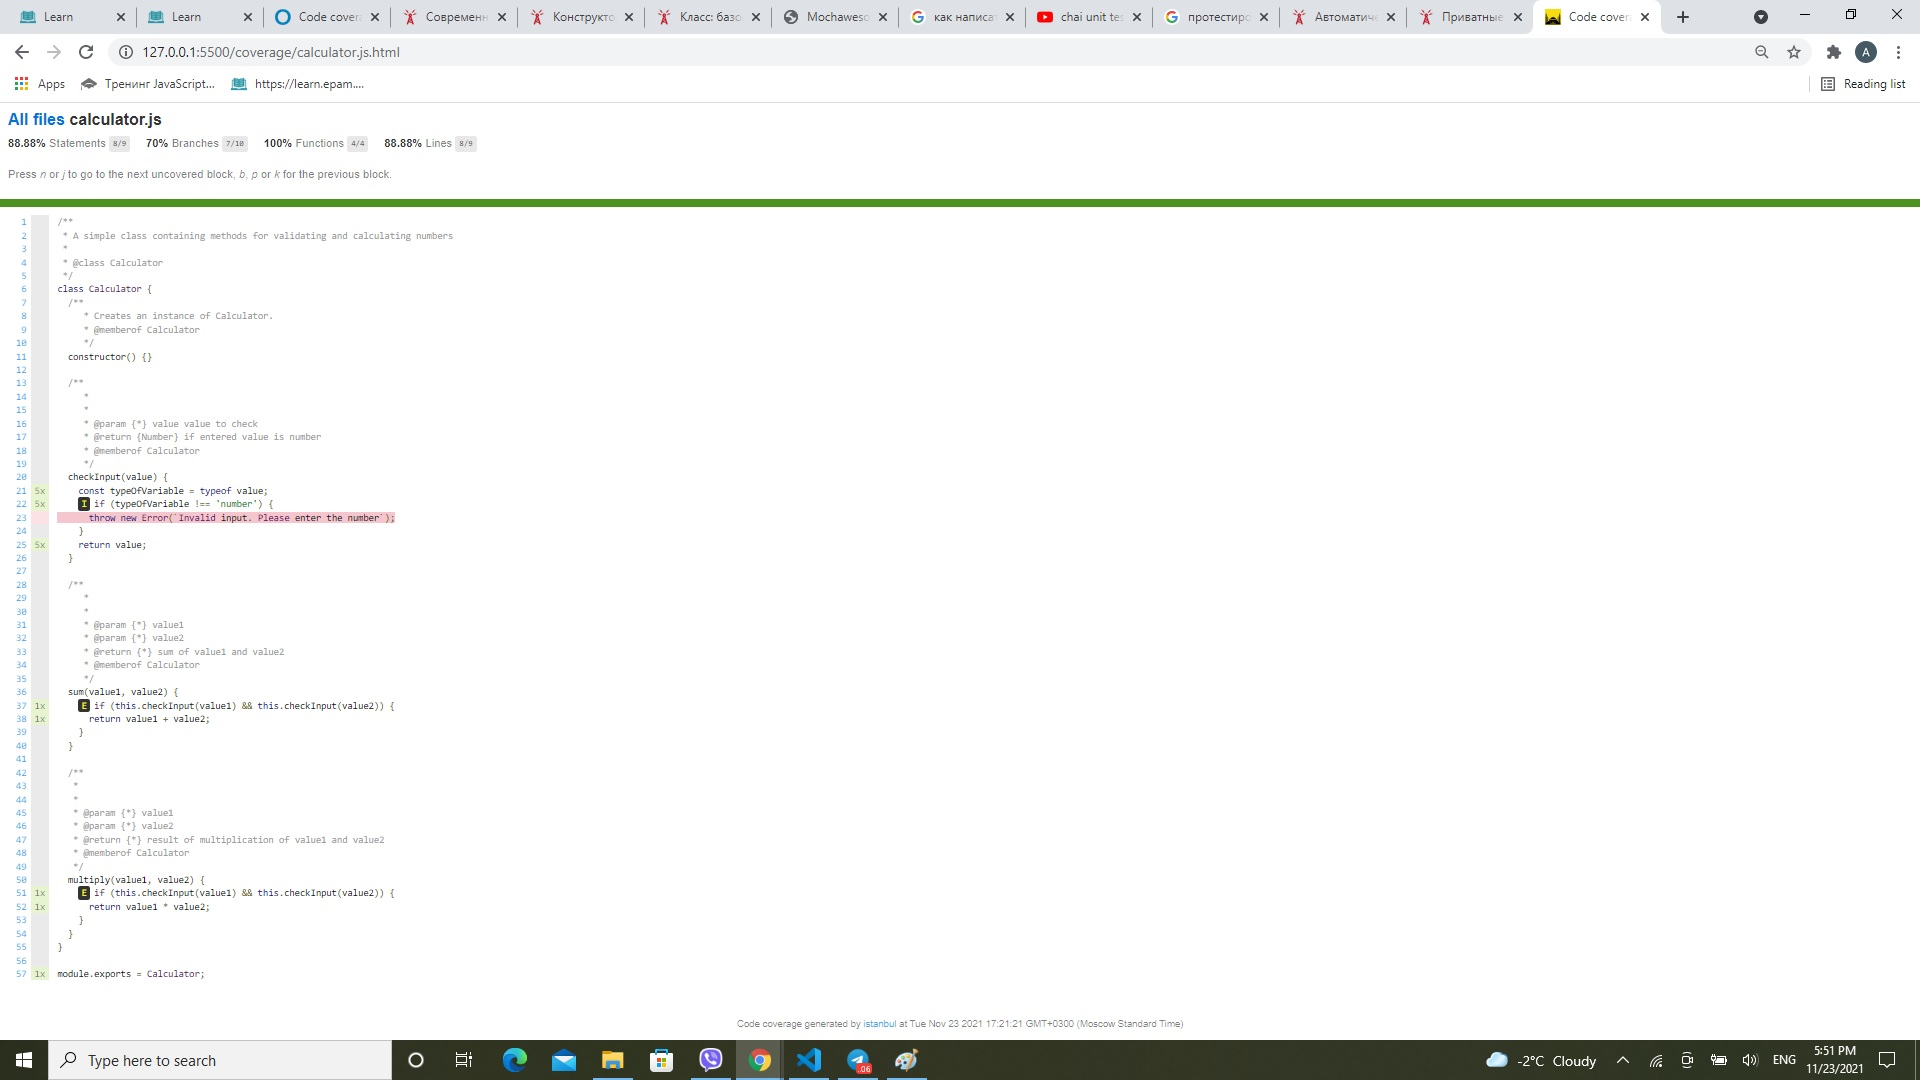
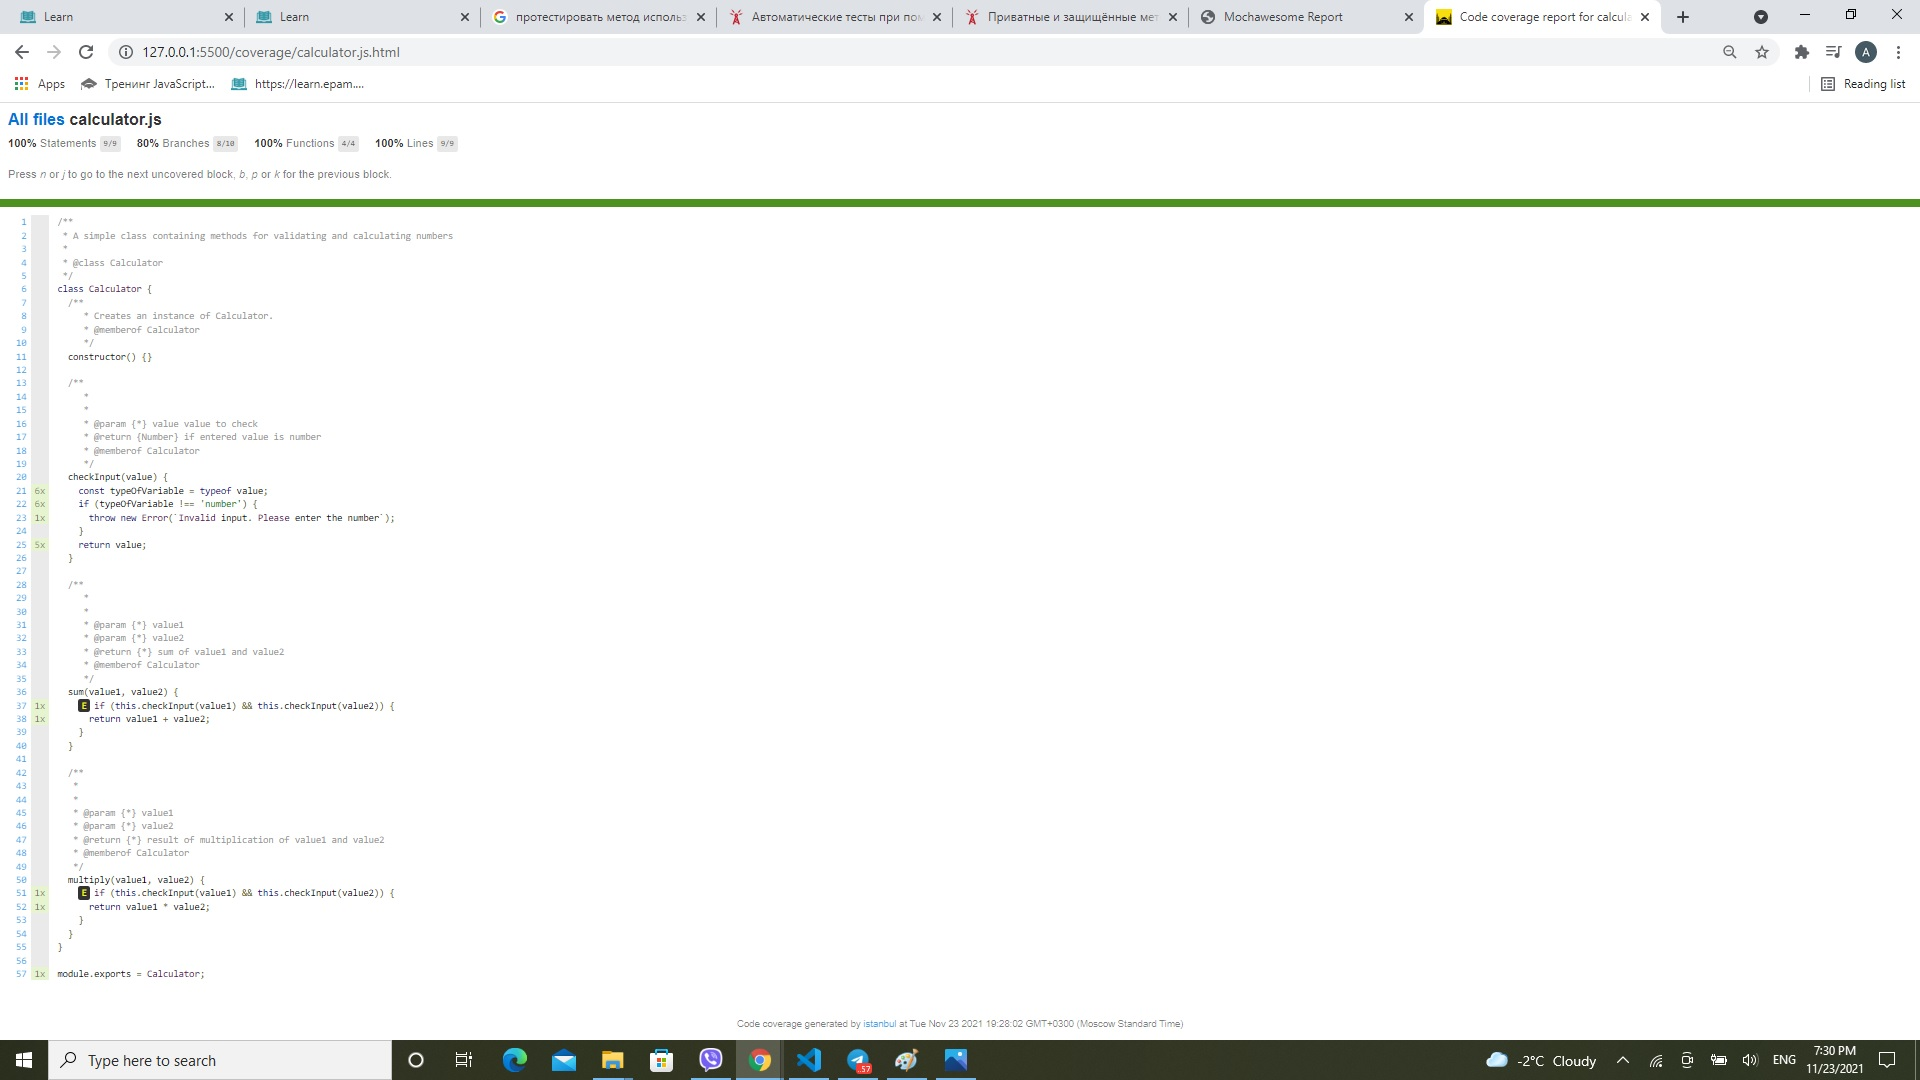
Created unit test for throw Error and new coverage-report

diff --git a/test/specs/isCalculatorValid.spec.js b/test/specs/isCalculatorValid.spec.js
@@ -14,6 +14,10 @@ describe(`checkValue positive scenarios`, function() {
   it(`should return entered value if this value number`, function() {
     expect(validator.checkInput(5)).to.be.equal(5);
   });
+  it('should throw an error if provided with not number value', function() {
+    let callWithError = () => validator.checkInput('five');
+     expect(callWithError).to.throw(`Invalid input. Please enter the number`);
+  });
   it(`should return sum of value1 and value2`, function() {
     expect(validator.sum(5,10)).to.be.equal(15);
   });
